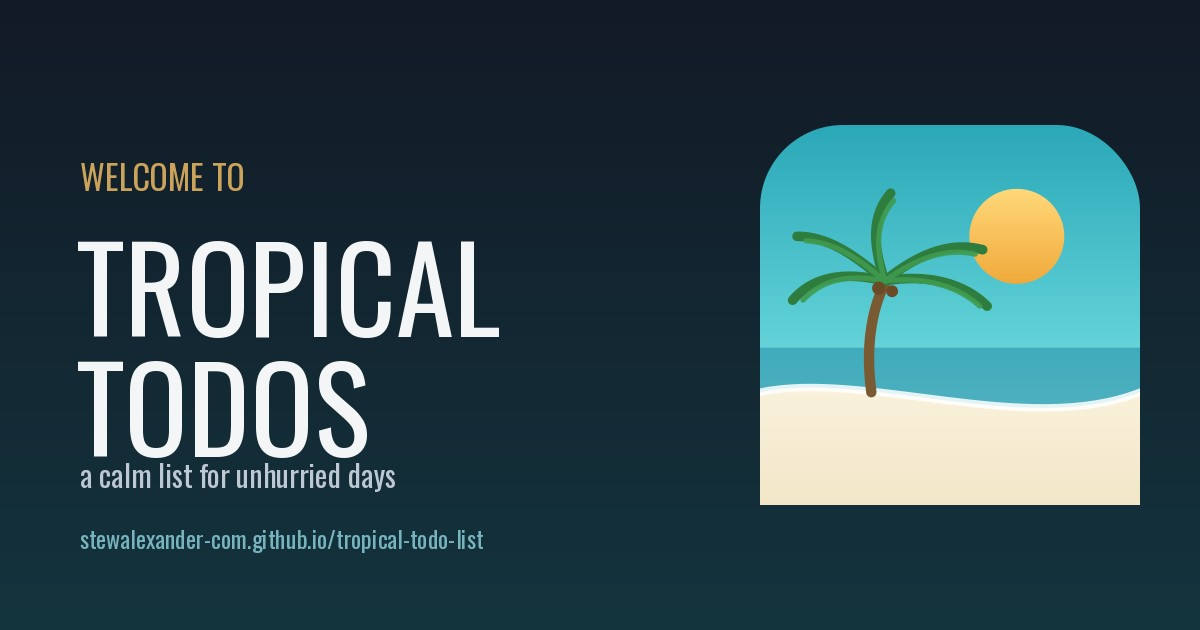
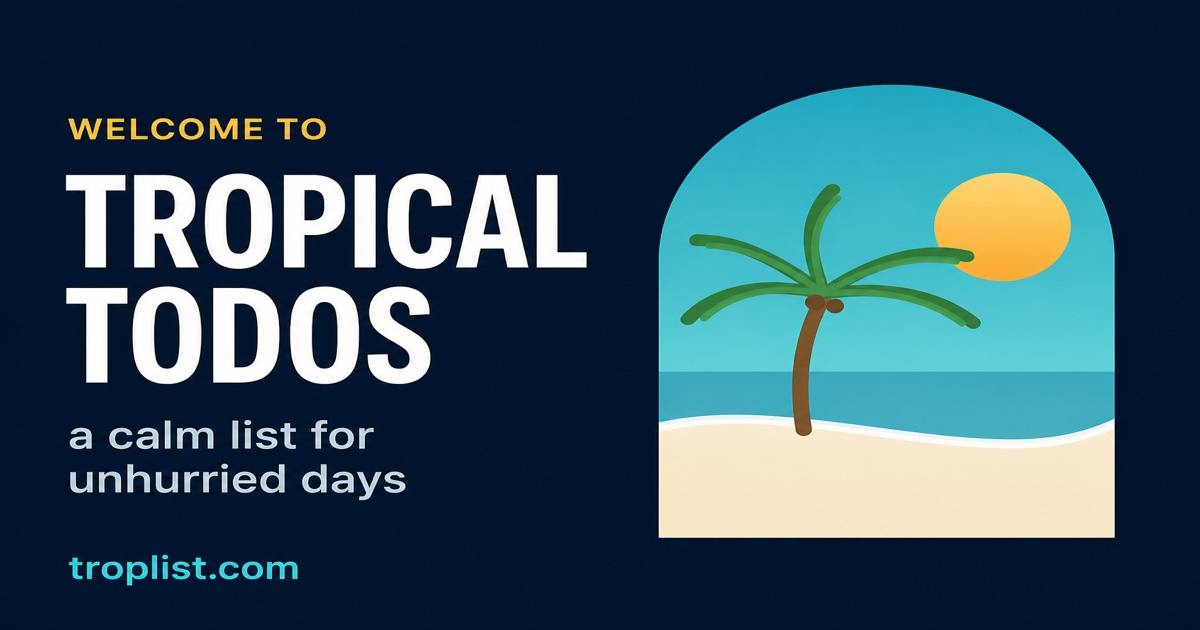
Refresh social preview card for troplist.com across share platforms.

diff --git a/index.html b/index.html
@@ -20,24 +20,27 @@
 <link rel="canonical" href="https://troplist.com/" />
 <link rel="sitemap" type="application/xml" href="/sitemap.xml" />
 
-<!-- Open Graph -->
+<!-- Open Graph — Facebook, Messenger, LinkedIn, iMessage/Messages -->
 <meta property="og:type" content="website" />
+<meta property="og:locale" content="en_US" />
 <meta property="og:site_name" content="Tropical ToDos" />
 <meta property="og:title" content="Tropical ToDos — a calm, local-first to-do list" />
 <meta property="og:description" content="A private to-do list with a cinematic beach backdrop and gentle ocean waves. Natural-language tasks, offline-first, your data never leaves your device." />
 <meta property="og:url" content="https://troplist.com/" />
-<meta property="og:image" content="https://troplist.com/icons/og-image.jpg" />
+<meta property="og:image" content="https://troplist.com/icons/og-image.jpg?v=20260830" />
+<meta property="og:image:secure_url" content="https://troplist.com/icons/og-image.jpg?v=20260830" />
 <meta property="og:image:type" content="image/jpeg" />
 <meta property="og:image:width" content="1200" />
 <meta property="og:image:height" content="630" />
-<meta property="og:image:alt" content="Tropical ToDos — palm tree, sun, and turquoise sea" />
+<meta property="og:image:alt" content="Tropical ToDos — palm tree on a beach; troplist.com" />
+<link rel="image_src" href="https://troplist.com/icons/og-image.jpg?v=20260830" />
 
-<!-- Twitter -->
+<!-- X / Twitter -->
 <meta name="twitter:card" content="summary_large_image" />
 <meta name="twitter:title" content="Tropical ToDos — a calm, local-first to-do list" />
 <meta name="twitter:description" content="A private to-do list with a cinematic beach backdrop and gentle ocean waves. Offline-first; your data never leaves your device." />
-<meta name="twitter:image" content="https://troplist.com/icons/og-image.jpg" />
-<meta name="twitter:image:alt" content="Tropical ToDos — palm tree, sun, and turquoise sea" />
+<meta name="twitter:image" content="https://troplist.com/icons/og-image.jpg?v=20260830" />
+<meta name="twitter:image:alt" content="Tropical ToDos — palm tree on a beach; troplist.com" />
 
 <link rel="manifest" href="manifest.webmanifest" />
 <link rel="icon" type="image/png" sizes="32x32" href="icons/favicon-32.png" />
@@ -593,7 +596,7 @@ body.scene-on .cat-mark:hover, body.scene-on .cat-pick-row:hover { background: r
   "browserRequirements": "Requires JavaScript. Works offline after first visit.",
   "description": "A calm, local-first to-do list with a cinematic beach backdrop and gentle ocean waves. Natural-language tasks, fuzzy search, offline-first. Your tasks never leave your device.",
   "url": "https://troplist.com/",
-  "image": "https://troplist.com/icons/og-image.jpg",
+  "image": "https://troplist.com/icons/og-image.jpg?v=20260830",
   "author": {
     "@type": "Person",
     "name": "Stewart Alexander",

diff --git a/sw.js b/sw.js
@@ -1,7 +1,7 @@
 /* Quiet service worker — offline-first app shell.
  * Bumps cache version on each release so updates land. App data lives in
  * IndexedDB (not the cache), so clearing caches never touches your tasks. */
-const CACHE = 'quiet-v28';
+const CACHE = 'quiet-v29';
 /* Code files are served network-first so the running JS always matches the
    freshly-fetched HTML. (A stale cached ambient.js paired with new markup was
    leaving the desktop background blank.) Cached copies are kept only as an
